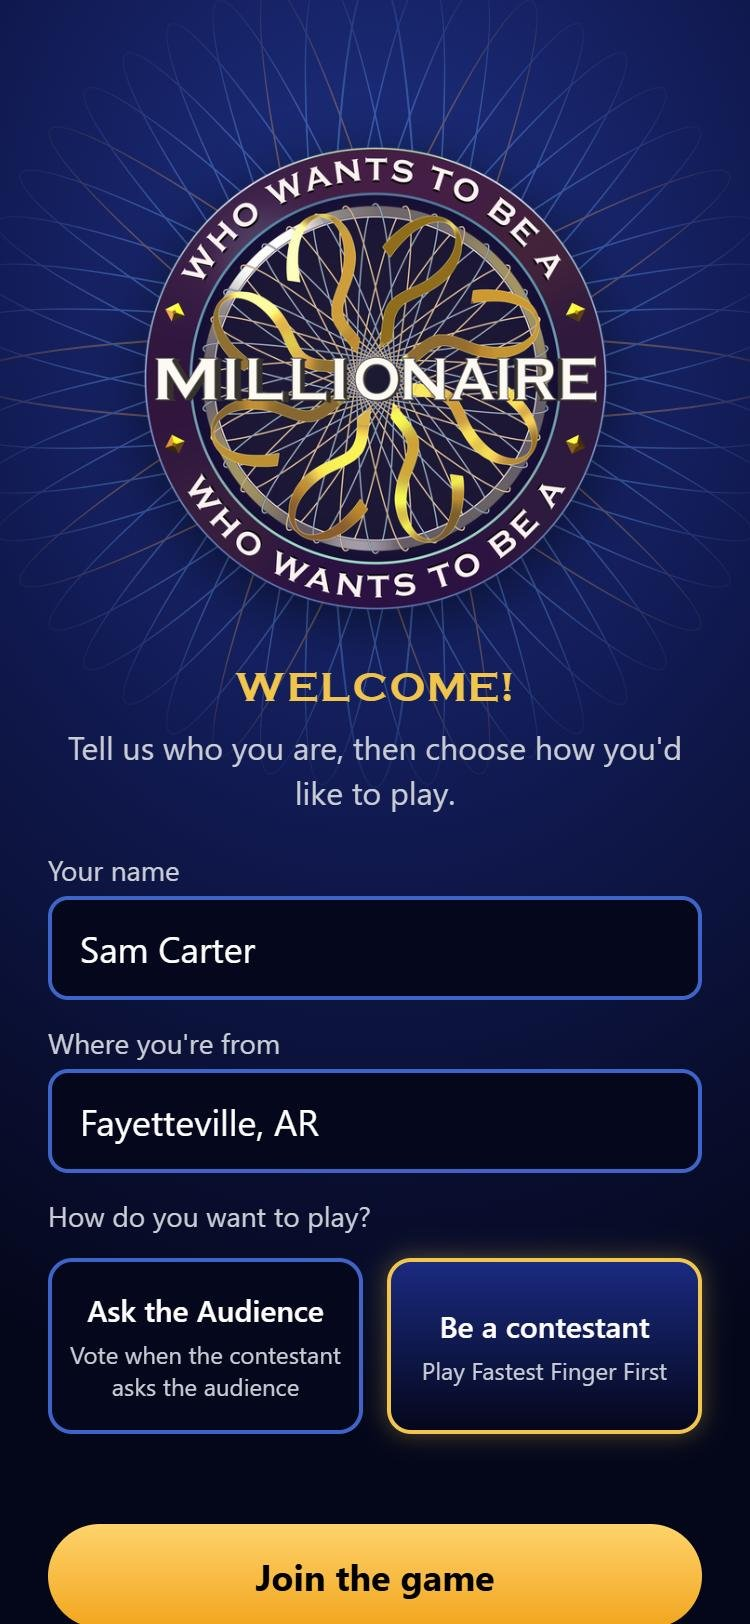
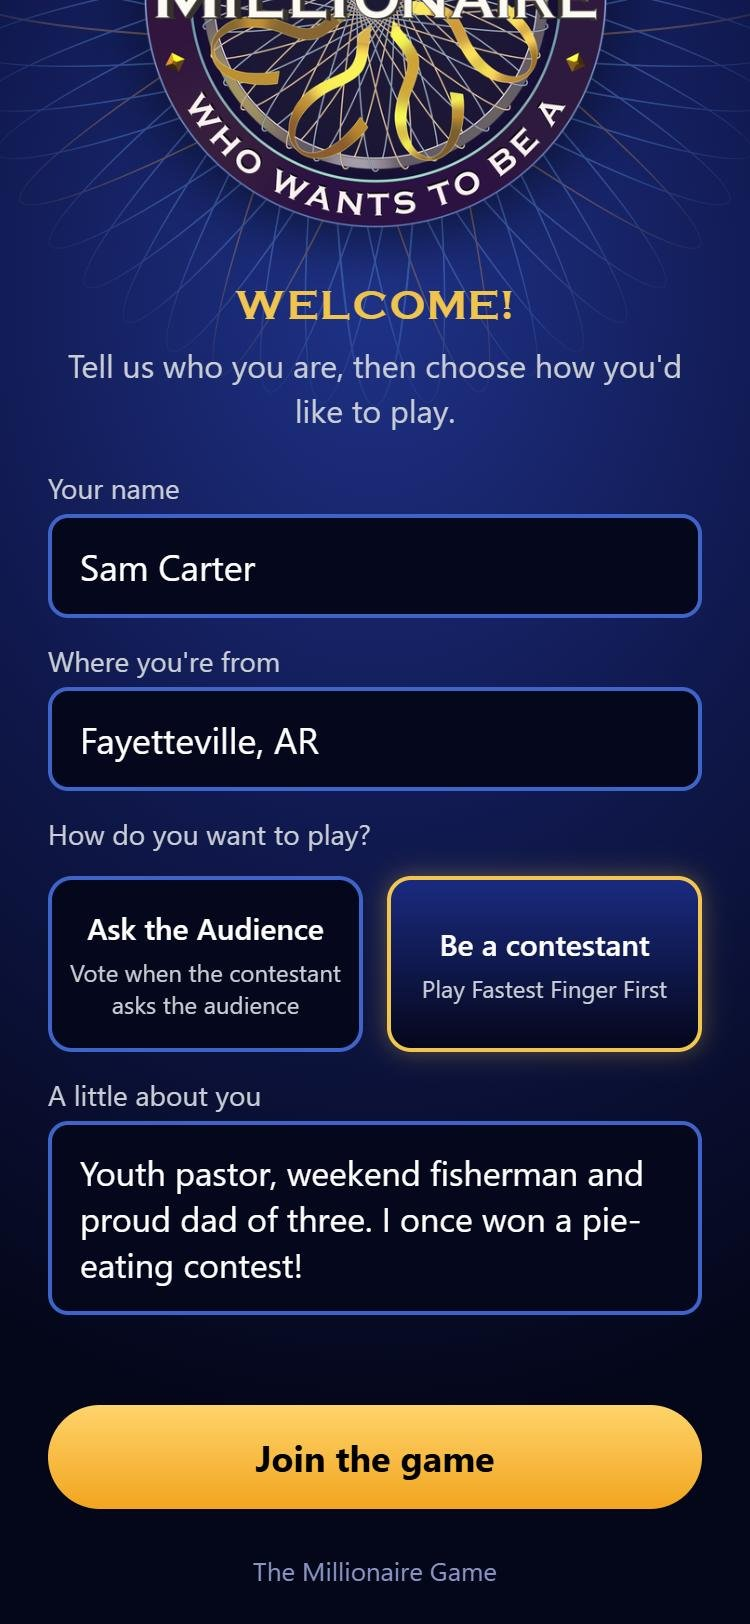
Phone Fastest Finger results, the 10-player limit and "a little about you"

diff --git a/README.md b/README.md
@@ -222,12 +222,26 @@ Every screen draws on a fixed 1920×1080 canvas that scales to any resolution, s
      and don't use its "guest" network, which keeps devices apart.
    - The live count shows next to the lifeline controls.
    - If nobody votes, the game falls back to a simulated poll.
+   - **Phones connected** in Settings counts every phone with the page open. Click it to see who's who: how many are in
+     the audience, how many are Fastest Finger contestants, and how many are still on the join screen.
+5. **Fastest Finger on the phone:** on the same page, people can choose **Be a contestant** instead.
+   - Up to **10 players** can be on the list at once (phones, the players' app and any you add yourself). Anyone after
+     that is told it's full, and can still join the audience.
+   - Contestants can write **a little about themselves** (their job, hobbies, a fun fact). When the winner takes the hot
+     seat, it goes on their contestant card with where they're from, so the host can read it out from the host screen.
+   - When the clock starts, the question and the four answers appear; the fourth tap sends their order.
+   - Once the winner is revealed on the TV, every phone shows how it went: **"You won! Come on down to the hot seat!"**,
+     "So close!" with their time and place, "Not this time" with the correct order, or "It's a tie!" before a tie-breaker.
 
 **On the phone** (the `/vote` page): people join as an audience member or a Fastest Finger contestant.
 
-| Joining | Fastest Finger — answering | Fastest Finger — answer sent |
+| Joining (with "a little about you") | Fastest Finger — answering | Fastest Finger — answer sent |
 |---|---|---|
 | <img src="docs/screenshots/phone-join.jpg" width="220" alt="Joining on a phone"> | <img src="docs/screenshots/phone-fff-answering.jpg" width="220" alt="Fastest Finger on a phone"> | <img src="docs/screenshots/phone-fff-sent.jpg" width="220" alt="Fastest Finger answer sent"> |
+
+| Fastest Finger — the winner | Right, but not fastest | Wrong answer |
+|---|---|---|
+| <img src="docs/screenshots/phone-fff-won.jpg" width="220" alt="You won! on a phone"> | <img src="docs/screenshots/phone-fff-so-close.jpg" width="220" alt="So close! on a phone"> | <img src="docs/screenshots/phone-fff-not-this-time.jpg" width="220" alt="Not this time on a phone"> |
 
 | Audience — waiting | Audience — voting | Audience — voting closed |
 |---|---|---|
